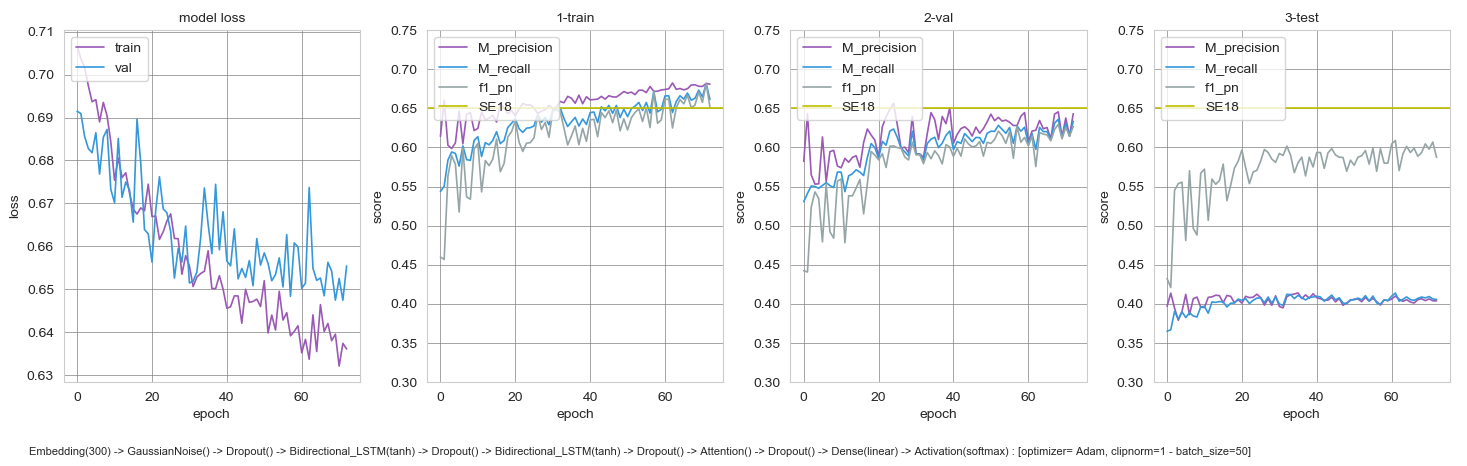
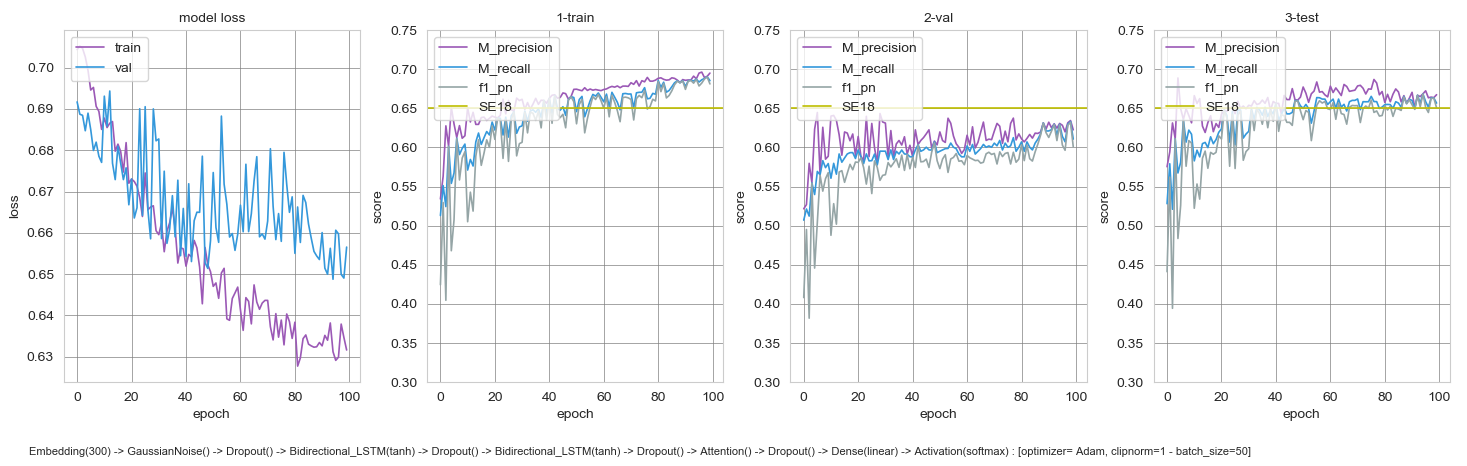
experiment 13 - learning with 100 epochs

diff --git a/models/nn_task_message.py b/models/nn_task_message.py
@@ -26,11 +26,11 @@ WV_DIM = 300
 # - if FINAL == True,   then the dataset will be split in {train, val}.
 # Even for training the model for the final submission a small percentage
 # of the labeled data will be kept for as a validation set for early stopping
-FINAL = True
+FINAL = False
 
 # If True, the SemEval gold labels will be used as the testing set
 # in order to perform Post-mortem analysis
-SEMEVAL_GOLD = True
+SEMEVAL_GOLD = False
 
 max_length = 50
 TASK = "A"  # Specify the Subtask. It is needed to correctly load the data
